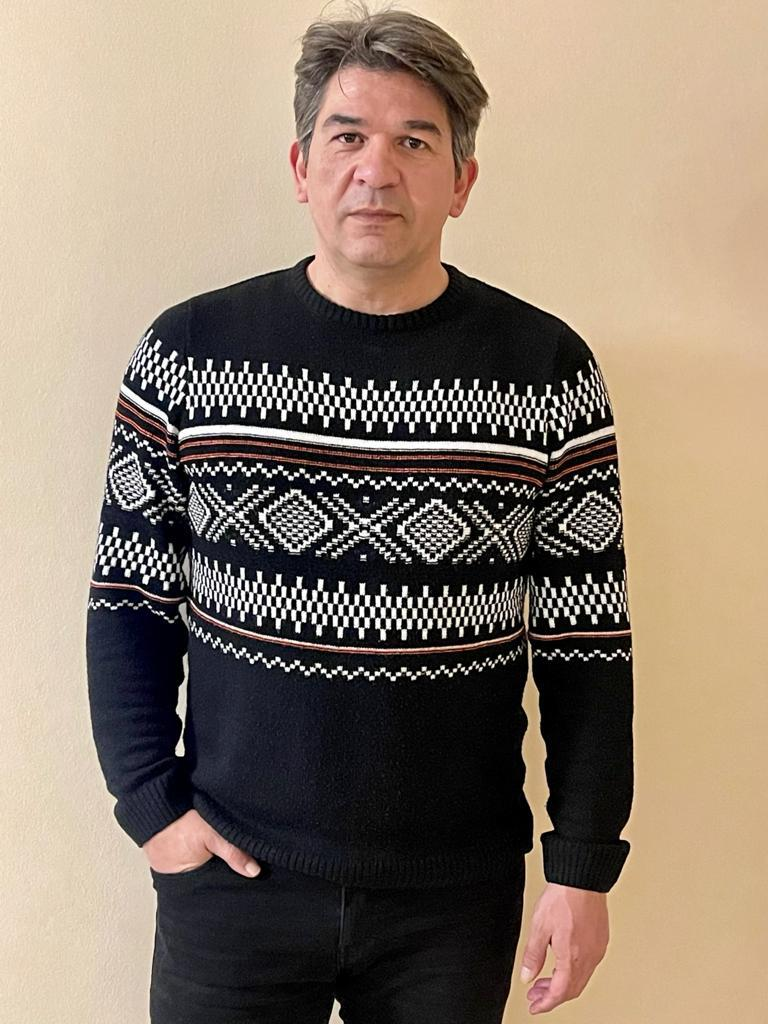
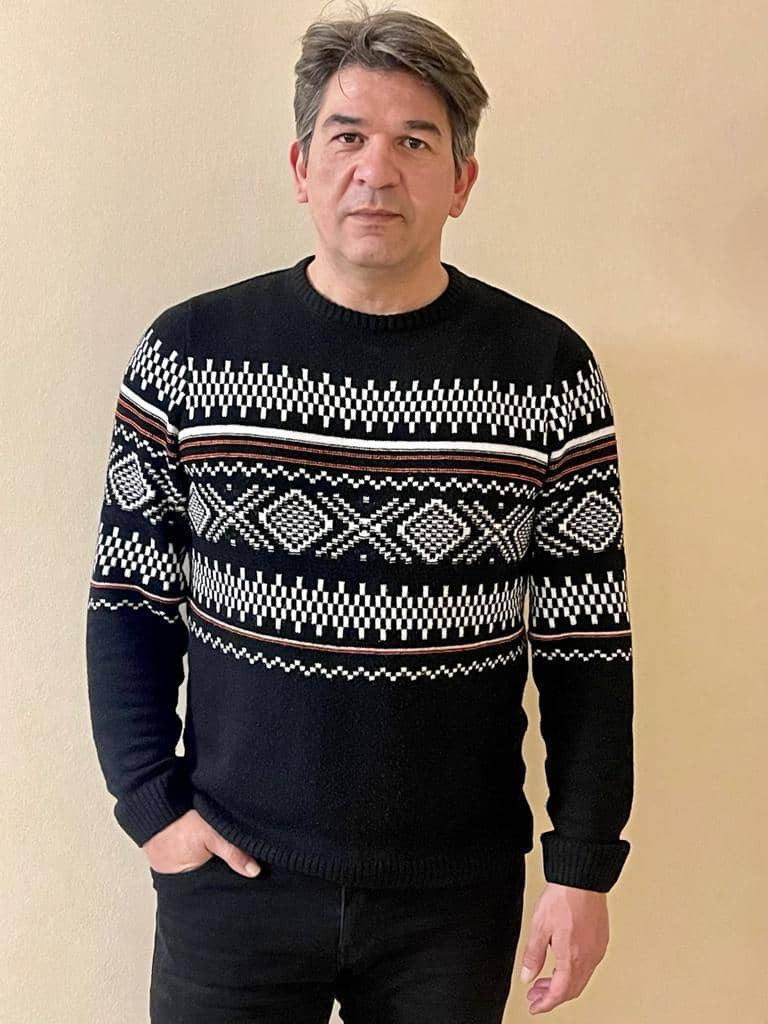
reduce the size of images and replace the corresponding main image on every page

diff --git a/services.html b/services.html
@@ -50,7 +50,7 @@
 		<div class="row pb-5 justify-content-center">
 			<div class="col-10 col-lg-8">
 				<h2 class="heading py-3">What We Can Help You With:</h2>
-				<img src="assets/images/main-image.png" style="width: 100%;"
+				<img src="assets/images/services-main-pic.png" style="width: 100%;"
 					class="img-fluid mx-auto main-img box-shadow " alt="Responsive image">
 			</div>
 		</div>
@@ -58,7 +58,7 @@
 		<div class="row pb-5 justify-content-center">
 
 			<div class="services-img box-shadow col-lg-3 col-10">
-				<img src="assets/images/pexels-andrea-piacquadio-3768131.jpg" style="width: 100%;" class="img-fluid"
+				<img src="assets/images/companion-care-img.png" style="width: 100%;" class="img-fluid"
 					alt="Card image cap">
 			</div>
 			<div class="bg-light col-toggle col-lg-5 col-10 box-shadow">
@@ -174,7 +174,7 @@
 		<div class="row pb-5 justify-content-center">
 
 			<div class="services-img box-shadow col-lg-3 col-10">
-				<img src="assets/images/housekeeping.jpg" style="width: 100%;" class="img-fluid" alt="Card image cap">
+				<img src="assets/images/housekeeping.png" style="width: 100%;" class="img-fluid" alt="Card image cap">
 			</div>
 			<div class="bg-light col-toggle col-lg-5 col-10 box-shadow">
 				<div class="service-short-desc">

diff --git a/index.html b/index.html
@@ -48,7 +48,7 @@
         <div class="row justify-content-center">
             <div class="col-10 col-lg-8">
                 <h2 class="heading py-3">OUTPATIENT NURSING SERVICES LILIEN</h2>
-                <img src="assets/images/main-image.png" style="width: 100%;" class="img-fluid mx-auto d-block main-img box-shadow "
+                <img src="assets/images/main-pic.png" style="width: 100%;" class="img-fluid main-img mx-auto d-block box-shadow "
                     alt="Responsive image">
             </div>
         </div>
@@ -80,8 +80,8 @@
         </div>
         <div class="row justify-content-center">
             <div class="col-10 col-lg-8 py-3 py-md-4">
-                <img src="assets/images/second-home-img.png" style="width: 100%;"
-                    class="img-fluid mx-auto d-block main-img box-shadow" alt="Responsive image">
+                <img src="assets/images/second-main-pic.png" style="width: 100%;"
+                    class="img-fluid mx-auto d-block box-shadow" alt="Responsive image">
             </div>
         </div>
         <div class="row justify-content-center">

diff --git a/job.html b/job.html
@@ -57,7 +57,7 @@
 		<div class="row pb-5 justify-content-center">
 			<div class="col-10 col-lg-8">
 				<h2 class="heading py-3">Our Job Offer For You</h2>
-				<img src="assets/images/main-image.png" style="width: 100%;"
+				<img src="assets/images/job-main-pic.png" style="width: 100%;"
 					class="img-fluid mx-auto main-img box-shadow " alt="Responsive image">
 			</div>
 		</div>

diff --git a/contact.html b/contact.html
@@ -55,7 +55,7 @@
 		<div class="row pb-5 justify-content-center">
 			<div class="col-10 col-lg-8">
 				<h2 class="heading py-3">Contact Us</h2>
-				<img src="assets/images/main-image.png" style="width: 100%;"
+				<img src="assets/images/contact-main-pic.png" style="width: 100%;"
 					class="img-fluid mx-auto main-img box-shadow " alt="Responsive image">
 			</div>
 		</div>

diff --git a/assets/style.css b/assets/style.css
@@ -117,7 +117,7 @@ h3 {
 }
 
 .box-shadow {
-  box-shadow: 0px 0px 8px #440e4471;
+  box-shadow: 0px 0px 6px #92659271;
 }
 
 /* ///////////////////////////////navbar//////////////////////// */
